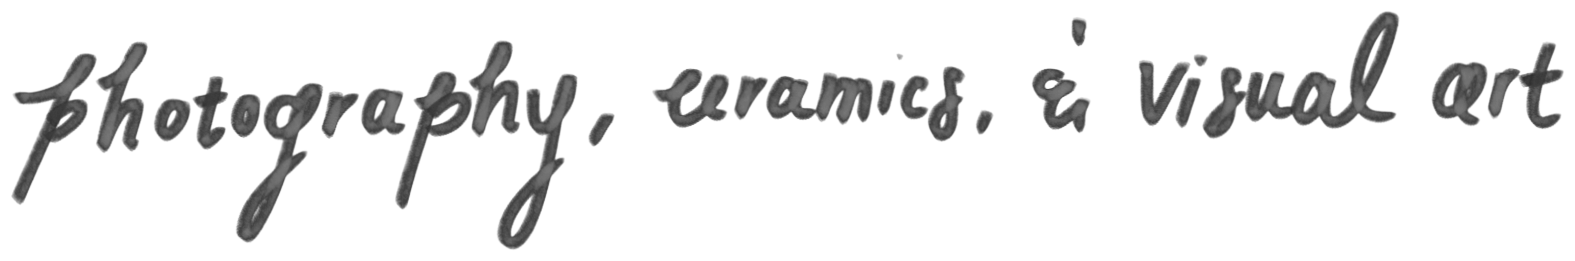
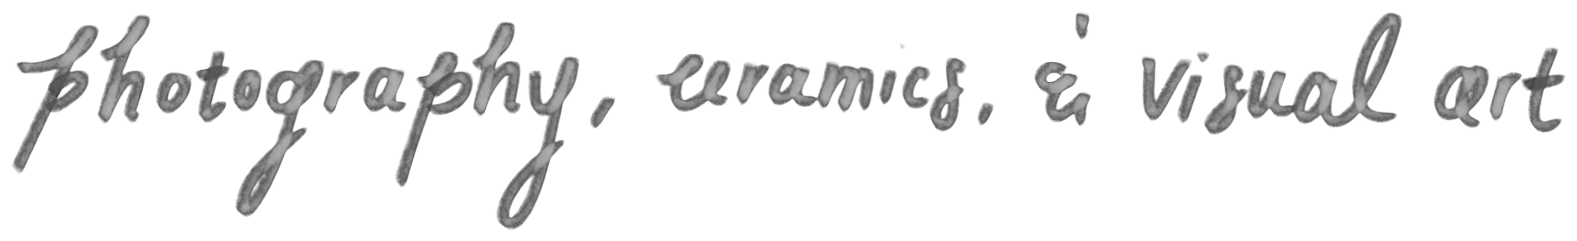
Straighten and enlarge work page header artwork
Image was tilted ~1.3deg with the right side riding high; rotated and
re-cropped to level the baseline. Also increased max display width.

Changed region(s): [[0.0, 0.029, 0.9956, 0.9585], [0.6533, 0.0581, 0.7156, 0.1452], [0.6844, 0.1452, 0.7156, 0.1743]]

diff --git a/work.html b/work.html
@@ -546,7 +546,7 @@
 </nav>
 
 <div class="page-header">
-  <h1><img src="images/work-header.png" alt="photography, ceramics, & visual art" style="width:100%; max-width:680px; height:auto; display:block;" /></h1>
+  <h1><img src="images/work-header.png" alt="photography, ceramics, & visual art" style="width:100%; max-width:920px; height:auto; display:block;" /></h1>
   <p>relax and take a stroll through my virtual art exhibit</p>
 </div>
 